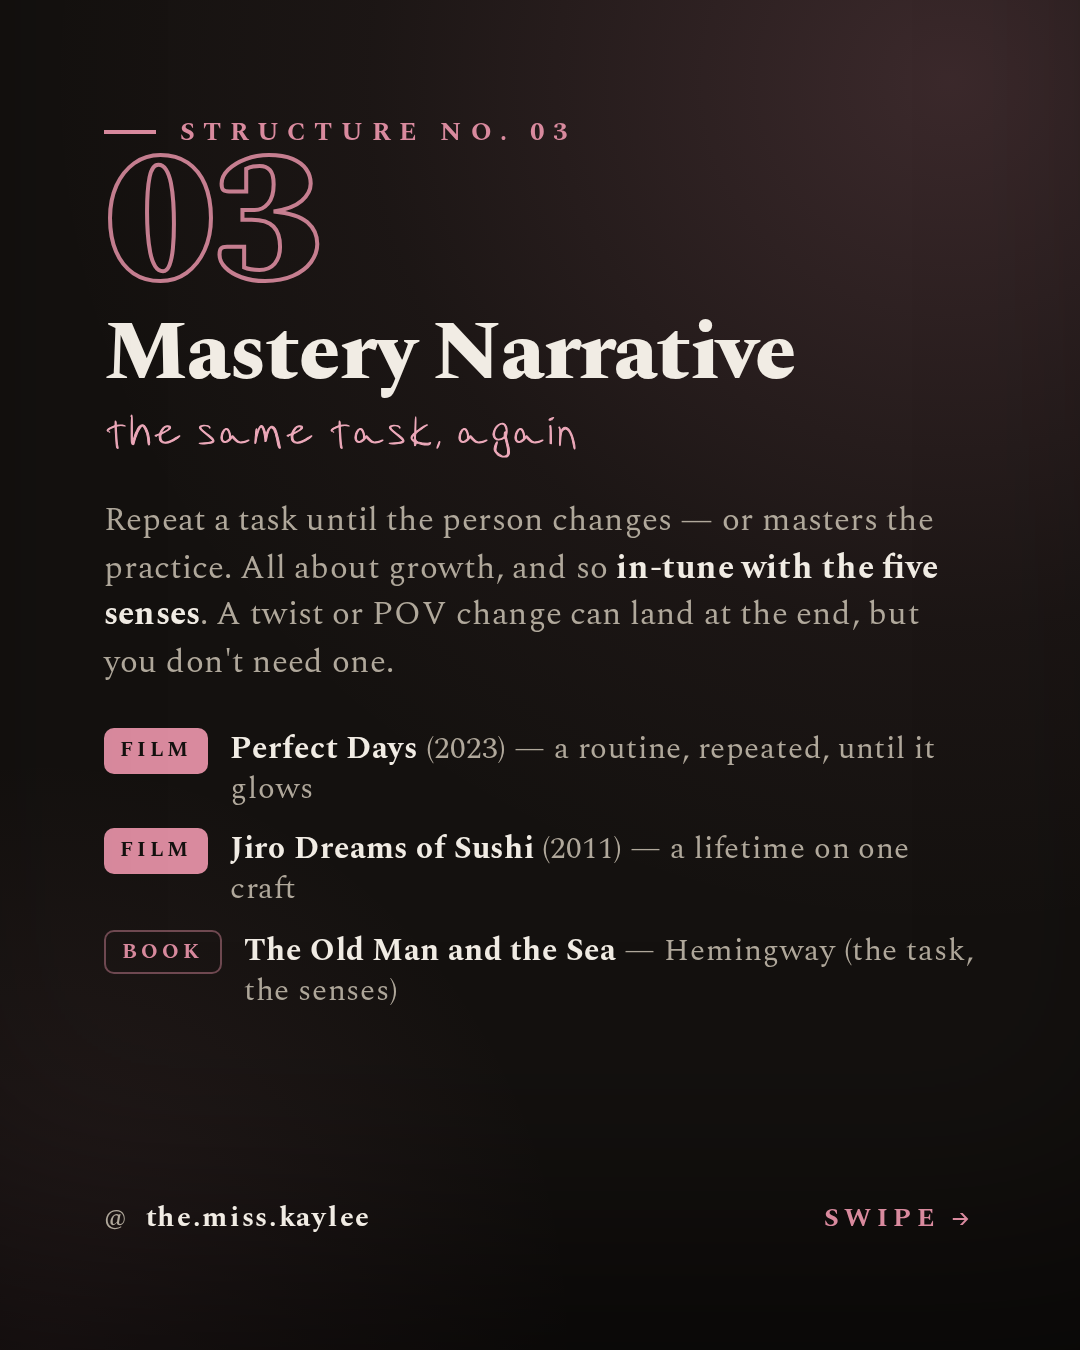
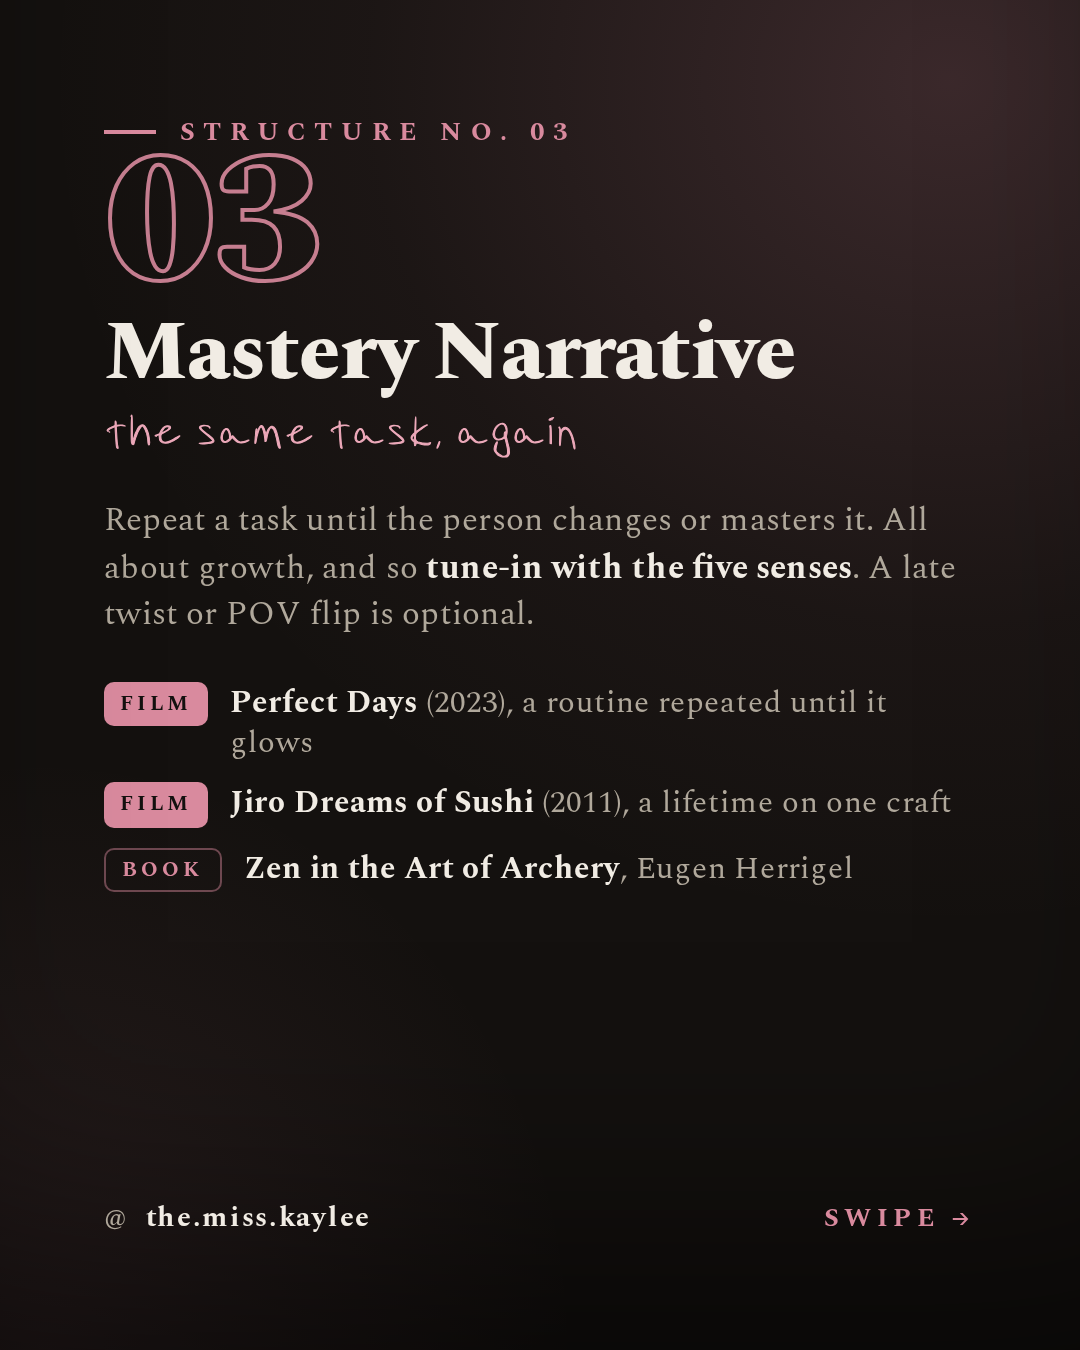
Carousel edits: tighter copy, no em dashes, conflict-safe examples
- Cover: line break after NYU, trimmed sub
- Remove all em dashes from slide copy
- 'tune-in' with the five senses (was 'in-tune')
- Swap conflict-coded examples: Old Man and the Sea -> Zen in the Art of
  Archery; Ghostwritten -> Let the Great World Spin
- Remove non-western teaser from slide 5 (moved to caption)
- Delete superseded draft layouts

diff --git a/scripts/ig-carousel/slide-04-mastery.html b/scripts/ig-carousel/slide-04-mastery.html
@@ -6,11 +6,11 @@
   <div class="num">03</div>
   <div class="name">Mastery Narrative</div>
   <div class="tag">the same task, again</div>
-  <p class="def">Repeat a task until the person changes — or masters the practice. All about growth, and so <b>in-tune with the five senses</b>. A twist or POV change can land at the end, but you don't need one.</p>
+  <p class="def">Repeat a task until the person changes or masters it. All about growth, and so <b>tune-in with the five senses</b>. A late twist or POV flip is optional.</p>
   <div class="ex">
-    <div class="exrow"><span class="extag">Film</span><span class="extxt"><b>Perfect Days</b> (2023) — a routine, repeated, until it glows</span></div>
-    <div class="exrow"><span class="extag">Film</span><span class="extxt"><b>Jiro Dreams of Sushi</b> (2011) — a lifetime on one craft</span></div>
-    <div class="exrow"><span class="extag alt">Book</span><span class="extxt"><b>The Old Man and the Sea</b> — Hemingway (the task, the senses)</span></div>
+    <div class="exrow"><span class="extag">Film</span><span class="extxt"><b>Perfect Days</b> (2023), a routine repeated until it glows</span></div>
+    <div class="exrow"><span class="extag">Film</span><span class="extxt"><b>Jiro Dreams of Sushi</b> (2011), a lifetime on one craft</span></div>
+    <div class="exrow"><span class="extag alt">Book</span><span class="extxt"><b>Zen in the Art of Archery</b>, Eugen Herrigel</span></div>
   </div>
   <div class="spacer"></div>
   <div class="footer"><span class="handle">@<b>the.miss.kaylee</b></span><span class="swipe">Swipe →</span></div>

diff --git a/scripts/ig-carousel/slide-02-daisychain.html b/scripts/ig-carousel/slide-02-daisychain.html
@@ -6,11 +6,11 @@
   <div class="num">01</div>
   <div class="name">Daisy Chain</div>
   <div class="tag">follow the thread</div>
-  <p class="def">Follow a single object, idea, or place as it passes through different characters' lives. Traditionally a <b>conflict-less plot</b> — the thread itself is the story.</p>
+  <p class="def">Follow one object, idea, or place as it passes through different lives. A <b>conflict-less plot</b> where the thread itself is the story.</p>
   <div class="ex">
-    <div class="exrow"><span class="extag">Film</span><span class="extxt"><b>The Red Violin</b> (1998) — one violin, three centuries of owners</span></div>
-    <div class="exrow"><span class="extag">Film</span><span class="extxt"><b>Twenty Bucks</b> (1993) — a $20 bill, passed hand to hand</span></div>
-    <div class="exrow"><span class="extag alt">Book</span><span class="extxt"><b>Ghostwritten</b> — David Mitchell (each voice hands to the next)</span></div>
+    <div class="exrow"><span class="extag">Film</span><span class="extxt"><b>The Red Violin</b> (1998), one violin through many owners</span></div>
+    <div class="exrow"><span class="extag">Film</span><span class="extxt"><b>Twenty Bucks</b> (1993), a $20 bill passed hand to hand</span></div>
+    <div class="exrow"><span class="extag alt">Book</span><span class="extxt"><b>Let the Great World Spin</b>, Colum McCann</span></div>
   </div>
   <div class="spacer"></div>
   <div class="footer"><span class="handle">@<b>the.miss.kaylee</b></span><span class="swipe">Swipe →</span></div>

diff --git a/scripts/ig-carousel/slide-03-sliceoflife.html b/scripts/ig-carousel/slide-03-sliceoflife.html
@@ -6,11 +6,11 @@
   <div class="num">02</div>
   <div class="name">Slice of Life</div>
   <div class="tag">sit in the moment</div>
-  <p class="def">Focus on ONE interaction, mood, or atmosphere — and develop it instead of changing it. Observational and conflict-less. It lends itself so well to <b>poetry</b>.</p>
+  <p class="def">Focus on ONE mood, moment, or atmosphere and develop it instead of changing it. Observational, conflict-less, and perfect for <b>poetry</b>.</p>
   <div class="ex">
-    <div class="exrow"><span class="extag">Film</span><span class="extxt"><b>Paterson</b> (2016) — a week of small, ordinary days</span></div>
-    <div class="exrow"><span class="extag">Film</span><span class="extxt"><b>Lost in Translation</b> (2003) — mood over plot, start to finish</span></div>
-    <div class="exrow"><span class="extag alt">Poetry</span><span class="extxt"><b>Mary Oliver</b> — paying attention IS the whole event</span></div>
+    <div class="exrow"><span class="extag">Film</span><span class="extxt"><b>Paterson</b> (2016), a week of small, ordinary days</span></div>
+    <div class="exrow"><span class="extag">Film</span><span class="extxt"><b>Lost in Translation</b> (2003), mood over plot</span></div>
+    <div class="exrow"><span class="extag alt">Poetry</span><span class="extxt"><b>Mary Oliver</b>, attention IS the whole event</span></div>
   </div>
   <div class="spacer"></div>
   <div class="footer"><span class="handle">@<b>the.miss.kaylee</b></span><span class="swipe">Swipe →</span></div>

diff --git a/scripts/ig-carousel/slide-05-takeaway.html b/scripts/ig-carousel/slide-05-takeaway.html
@@ -3,9 +3,8 @@
 <body>
 <div class="slide quote" data-ref="slide-takeaway">
   <div class="mark">&ldquo;</div>
-  <div class="q">A story can do without <span class="em">conflict</span> — but it can't do without change.</div>
-  <p class="note">Conflict-driven stories are great. But master <b>change</b> first — a story is about change. Conflict is just what keeps the audience <b>HOOKED</b>.</p>
-  <div class="teaser">Part 2 soon · storytelling beyond the West</div>
+  <div class="q">A story can do without <span class="em">conflict</span>, but it can't do without change.</div>
+  <p class="note">Conflict-driven stories are great. But master <b>change</b> first. A story is about change; conflict is just what keeps the audience <b>HOOKED</b>.</p>
   <div class="spacer"></div>
   <div class="footer">
     <img class="portrait" src="kaylee-headshot.jpg" alt="Kaylee Renaud">

diff --git a/scripts/ig-carousel/slide-01-cover.html b/scripts/ig-carousel/slide-01-cover.html
@@ -4,8 +4,8 @@
 <div class="slide cover" data-ref="slide-cover">
   <div class="kicker">Storytelling &nbsp;·&nbsp; Part 1</div>
   <div class="headline">You don't <span class="em">need</span> conflict to tell your story</div>
-  <span class="flourish">what NYU didn't teach me</span>
-  <p class="sub">Three narrative structures that hook an audience without it. Conflict-driven stories are great too — but my advice, for film &amp; beyond: <b>master change first.</b></p>
+  <span class="flourish">what NYU<br>didn't teach me</span>
+  <p class="sub">Three structures that hook without it. Conflict-driven stories are great too. My advice, for film and beyond: <b>master change first.</b></p>
   <div class="spacer"></div>
   <div class="footer">
     <span class="handle">@<b>the.miss.kaylee</b></span>
